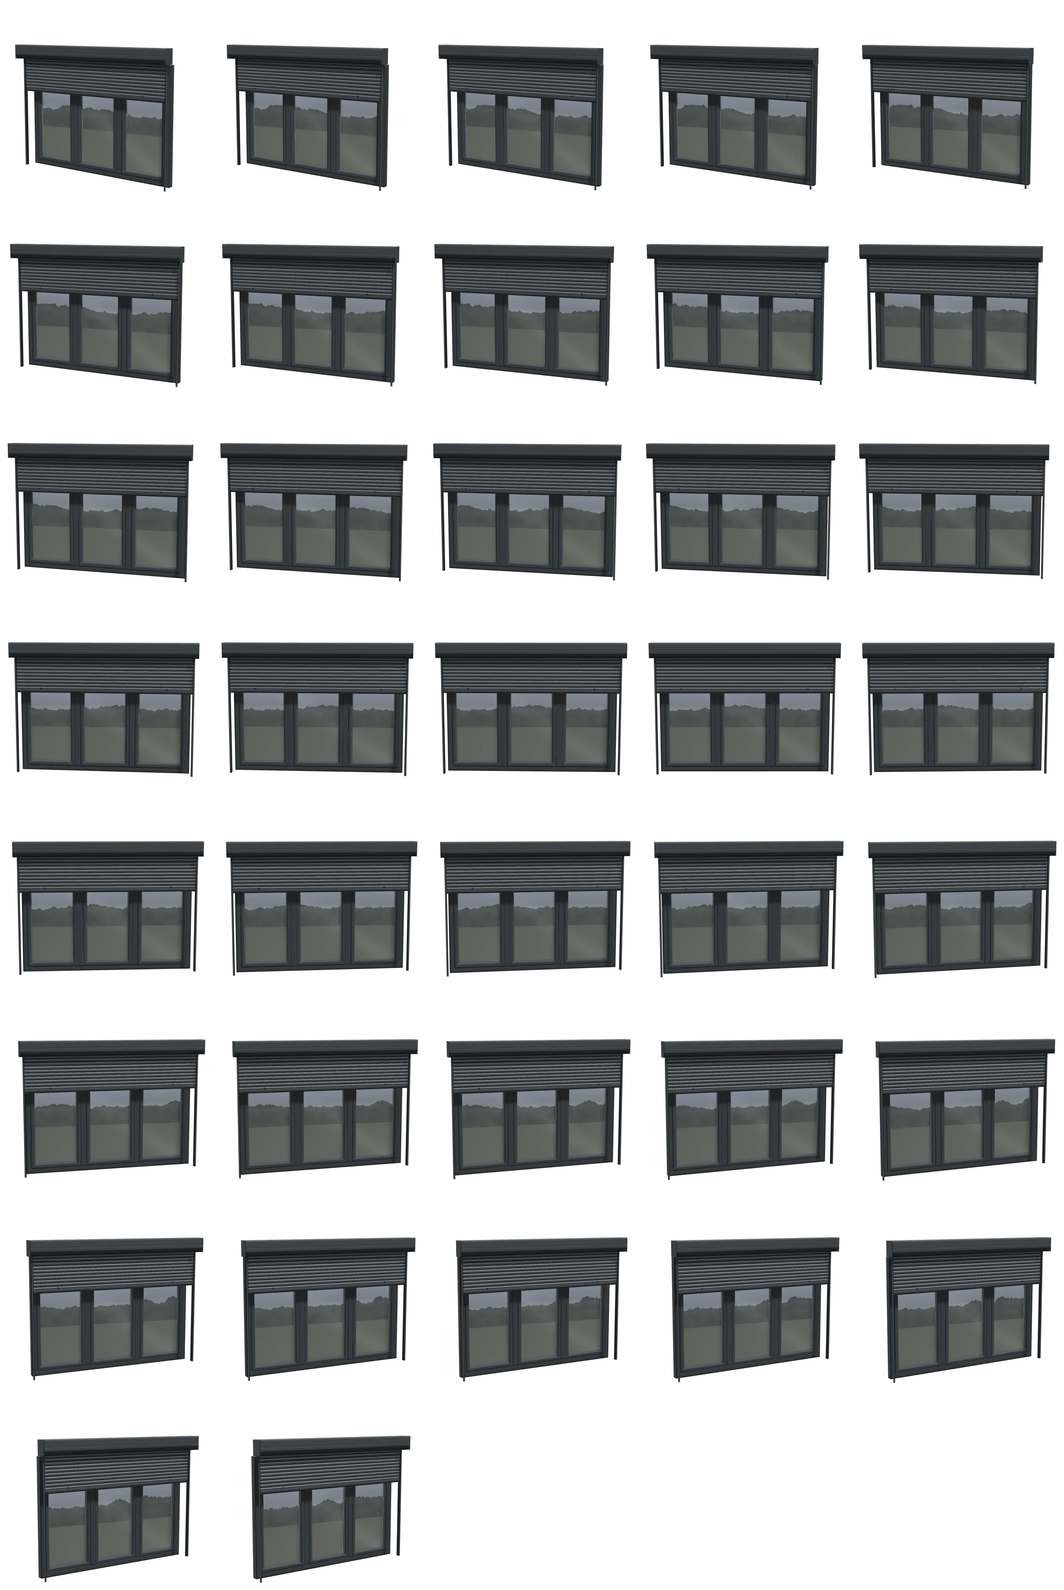
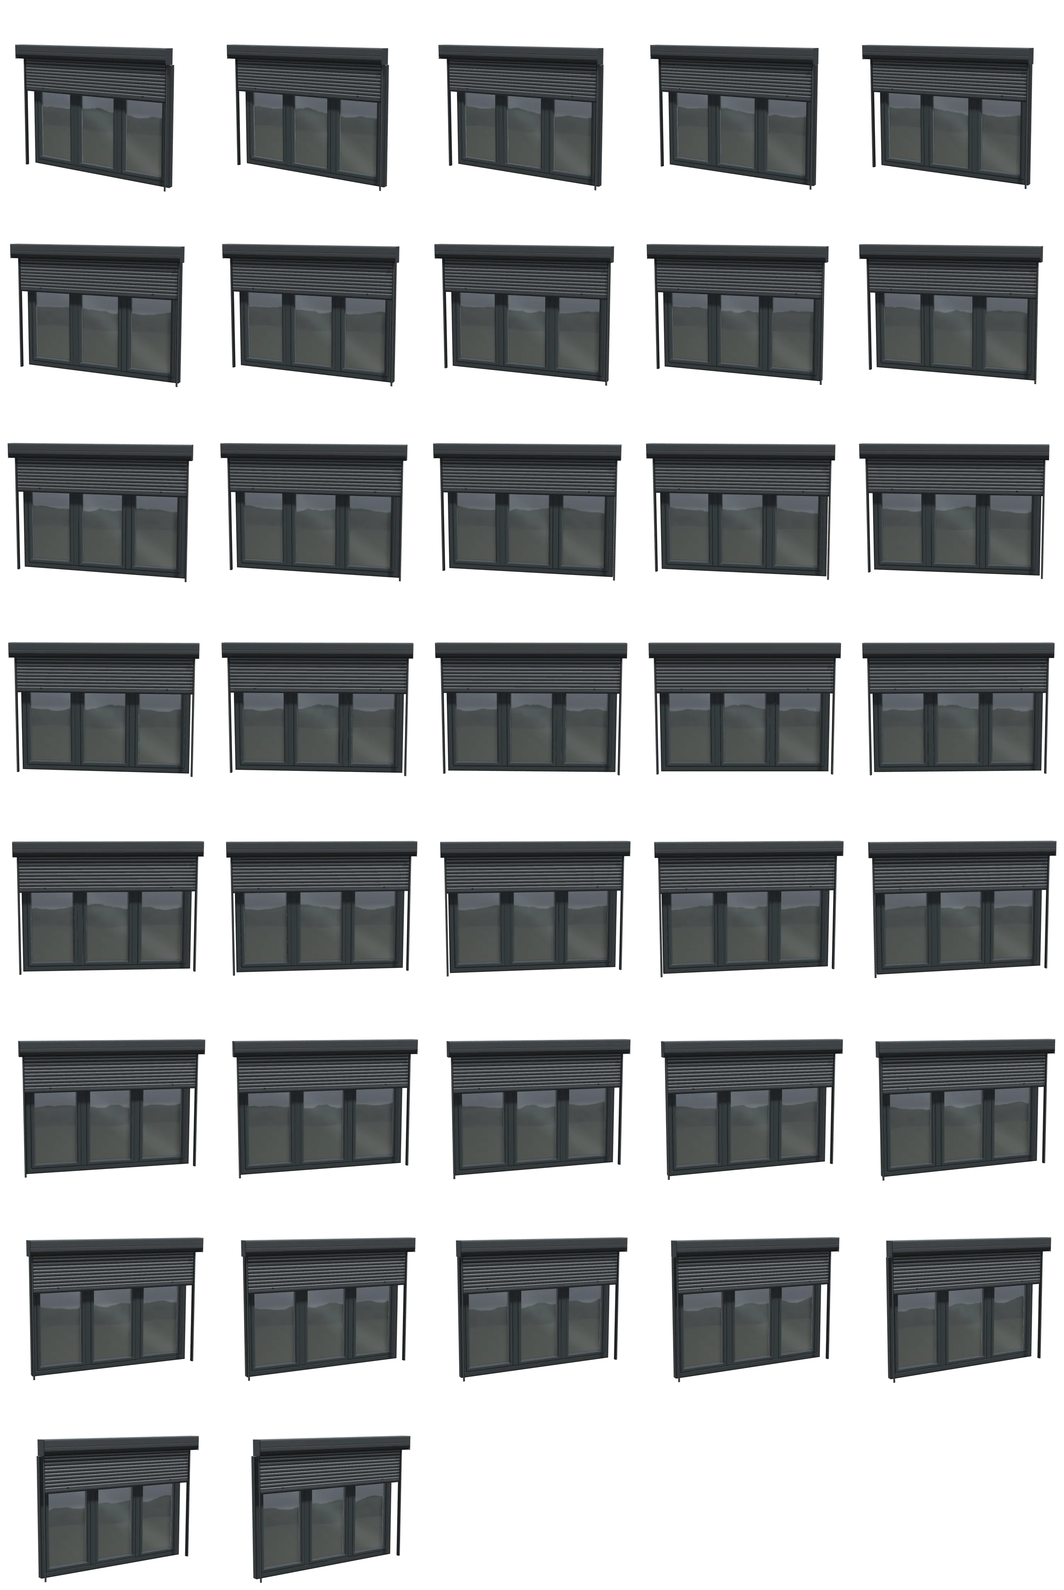
3-D-Bühne: Außenlaibung wie die Fassade, Isolierglas, flüssiges Ziehen
Zwei Punkte mit dem größten Gewinn an Realismus (Aufbau und Elemente),
ausgewählt mit einer unabhängigen Beurteilung der Bilder:

- Außenlaibung wie die Fassade: von der Außenkante des Rahmens bis zur
  Fassade trägt die Laibung deren Putz und Farbe, bei Klinker die Steine
  mit durchlaufenden Schichten, bei Holz die Bretter; innen bleibt der
  helle Innenputz (buehne.js laibungAussen). Das CSS-Modell zeigt die
  Außenlaibung im Ton der Fassade.
- Isolierglas von außen: weniger spiegelnd (22 bis 40 % statt 36 bis
  66 %), dunkler als die besonnte Wand, jede Scheibe leicht gewölbt
  (Doppelscheibeneffekt), rundere Baumkronen, dunklerer Rasen.

Fluss auf schwachen Geräten, ohne Änderung am Standbild:

- Ziehen, Zwei-Finger-Zoom und Zoom gelten als Bewegung: vorher wurde
  ab dem zweiten Bild des Ziehens in Standbild-Schärfe gezeichnet (am
  Telefon bis 2,25-fach, am Laptop bis 4-fach so viele Pixel), und der
  Regler zählte diese Bilder nicht.
- Der Regler stuft nach 6 statt 20 langsamen Bildern herunter, damit er
  schon in einer Kamerafahrt von 0,9 s greift; beim Ziehen ab 70 ms.

Hero-Bilder neu erzeugt, Doku und Vergleichsbilder unter docs/.

Claude-Session: https://claude.ai/code/session_0184P5fGdniWcDaYecSm6W1G

diff --git a/web/assets/buehne.js b/web/assets/buehne.js
@@ -261,12 +261,13 @@ window.Buehne3D = (function () {
     'float l=dot(c,vec3(0.3,0.59,0.11));return mix(vec3(l),c,0.6);}' +
     /* Spiegelwelt fürs Glas von außen (Inhaber, 6.11.2026: „den größten Einfluss … Realismus“): was vor dem Haus liegt, scharf wie in
        einer echten Scheibe: Himmel vom hellen Horizont zum Blau, ziehende Wolken, eine Baumreihe mit unruhiger Kante, davor Rasen und Weg.
-       el: Höhe über dem Horizont, az: Richtung; die Kanten bleiben auf einen Bildpunkt scharf (fwidth) */
-    'vec3 spiegel(float el,float az){float aa=max(fwidth(el)*1.2,0.0015);float hs=clamp(el/0.5,0.0,1.0);vec3 sky=mix(vec3(0.93,0.95,0.97),vec3(0.5,0.67,0.9),pow(hs,0.7));' +
+       el: Höhe über dem Horizont, az: Richtung; die Kanten bleiben scharf (fwidth, mindestens 0,0028).
+       Seit 6.11.2026 rundere Kronen (weniger feine Zacken, die Kante einen Hauch weicher) und ein dunklerer Rasen vor dem Haus */
+    'vec3 spiegel(float el,float az){float aa=max(fwidth(el)*1.2,0.0028);float hs=clamp(el/0.5,0.0,1.0);vec3 sky=mix(vec3(0.93,0.95,0.97),vec3(0.5,0.67,0.9),pow(hs,0.7));' +
     'float wo=rausch(vec2(az*2.4,el*5.0)+11.0)*0.55+rausch(vec2(az*5.3,el*11.0)+3.0)*0.3+rausch(vec2(az*12.0,el*25.0)+7.0)*0.15;sky=mix(sky,vec3(0.95,0.96,0.97),smoothstep(0.55,0.8,wo)*smoothstep(0.03,0.16,el));' +
-    'float tf=0.012+0.03*rausch(vec2(az*4.0,1.0))+0.016*rausch(vec2(az*15.0,4.0))+0.011*rausch(vec2(az*48.0,8.0))+0.006*rausch(vec2(az*130.0,6.0));float baum=1.0-smoothstep(tf-aa,tf+aa,el);' +
+    'float tf=0.014+0.03*rausch(vec2(az*4.0,1.0))+0.017*rausch(vec2(az*13.0,4.0))+0.007*rausch(vec2(az*34.0,8.0))+0.0025*rausch(vec2(az*90.0,6.0));float baum=1.0-smoothstep(tf-aa,tf+aa,el);' +
     'vec3 bc=mix(vec3(0.17,0.22,0.17),vec3(0.29,0.33,0.26),rausch(vec2(az*36.0,el*48.0)));bc=mix(bc,vec3(0.38,0.43,0.35),0.4*smoothstep(tf-0.035,tf,el));vec3 c=mix(sky,bc,baum);' +
-    'float hz=-0.03+0.003*rausch(vec2(az*9.0,2.0));float bo=1.0-smoothstep(hz-aa,hz+aa,el);vec3 gr=mix(vec3(0.47,0.53,0.41),vec3(0.58,0.58,0.55),smoothstep(-0.12,-0.3,el));return mix(c,gr,bo);}' +
+    'float hz=-0.03+0.003*rausch(vec2(az*9.0,2.0));float bo=1.0-smoothstep(hz-aa,hz+aa,el);vec3 gr=mix(vec3(0.38,0.43,0.34),vec3(0.5,0.5,0.47),smoothstep(-0.12,-0.3,el));return mix(c,gr,bo);}' +
     'void main(){gFw=fwidth(vP);vec3 N=normalize(mix(uN,uN2,clamp(uNA>0.5?vP.y/max(uWH.y,1e-3):vP.x/max(uWH.x,1e-3),0.0,1.0)));vec3 V=normalize(uEye-vW);float fs=dot(N,V);' +
     '\n#ifdef SCHNITT\nif(uSide>0.5&&fs<0.0)discard;if(uSide<-0.5&&fs>0.0)discard;\n#endif\n' +
     'vec2 P=vP;vec4 c=uBase;for(int i=4;i>=0;i--){if(i>=uNL)continue;vec4 l=lage(i,P);c=l+c*(1.0-l.a);}' +
@@ -296,9 +297,13 @@ window.Buehne3D = (function () {
        sich die Scheibe als Klarglas, nicht als Grau- oder Sonnenschutzglas */
     /* seit 5.11.2026 (Inhaber: „Detailreichtum“ und Spiegelungen wie echtes Glas): gespiegelt wird die Umgebung vor dem Haus, dieselbe
        Landschaft wie der Blick von innen (aussicht: Himmel, Baumreihe, Rasen), gekippt nach der Spiegelrichtung; beim Drehen wandert sie mit */
+    /* Isolierglas (Inhaber, 6.11.2026: Aufbau und Elemente realistischer): bei Tag ist die Scheibe dunkler als die besonnte Wand, sie
+       spiegelt oben den Himmel (22 bis 40 %, vorher 36 bis 66 %: das Glas stand wie ein helles Plakat in der Wand), darunter sieht man den
+       dunklen Raum. Jede Scheibe ist leicht gewölbt wie echtes Isolierglas (Doppelscheibeneffekt): Wölbung je Scheibe nach ihrer Lage
+       verschieden, nach innen oder außen, so biegt sich die Baumlinie je Scheibe ein wenig anders, statt in allen gleich zu stehen */
     'if(fs<0.0){float da=max(c.a,0.94);float yv=clamp(vP.y/max(uWH.y,1.0),0.0,1.0),xv=clamp(vP.x/max(uWH.x,1.0),0.0,1.0);float hi=1.0-smoothstep(0.05,0.62,yv);' +
-    'vec3 raum=mix(vec3(0.045,0.05,0.055),vec3(0.12,0.11,0.1),smoothstep(0.4,1.0,yv));rgb=mix(rgb,raum*da,0.86);c.a=da;F=max(F,0.36)+0.3*hi;float hw=max(uPr.w,1.0);' +
-    'env=spiegel(-vW.y/(2.2*hw)*0.7-R.y*0.5+0.1,vW.x/(2.2*hw)*0.7+R.x*0.8);rgb+=vec3(0.92,0.95,0.98)*0.08*exp(-pow((vW.x*0.7+vW.y)/hw/0.1,2.0))*da;}' +
+    'vec3 raum=mix(vec3(0.045,0.05,0.055),vec3(0.12,0.11,0.1),smoothstep(0.4,1.0,yv));rgb=mix(rgb,raum*da,0.86);c.a=da;F=max(F,0.22)+0.18*hi;float hw=max(uPr.w,1.0);vec3 o0=vW-uTx*vP.x-uTy*vP.y;float hb=hash(floor(o0.xy*0.37)+floor(uWH*0.21));float bow=0.012*(hb<0.5?-1.0:1.0)*(0.6+0.8*fract(hb*7.0));float bu=sin(3.14159*xv),bv=sin(3.14159*yv);' +
+    'env=spiegel(-vW.y/(2.2*hw)*0.7-R.y*0.5+0.1+bow*bu*cos(3.14159*yv),vW.x/(2.2*hw)*0.7+R.x*0.8+0.8*bow*cos(3.14159*xv)*bv);rgb+=vec3(0.92,0.95,0.98)*0.08*exp(-pow((vW.x*0.7+vW.y)/hw/0.1,2.0))*da;}' +
     /* von innen: die helle Durchsicht, dazu ein breiter, weicher Glanz schräg über alle Scheiben (Spiegelung des Raums, kaum sichtbar) */
     'else{if(uLi.w>1.5){float hw=max(uPr.w,1.0);vec3 d=-V;float el=-vW.y/(2.2*hw)-d.y,az=vW.x/(2.2*hw)+d.x/max(length(d.xz),1e-3);' +
     'vec3 au=aussicht(el,az)*(uLi.w>2.5?vec3(0.52,0.58,0.64):vec3(0.95,0.985,0.975));rgb=mix(rgb/max(c.a,1e-3),au,1.0-gPG)*uOp;c.a=uOp;}else rgb=mix(rgb,c.rgb*0.99,0.75*(1.0-gPG));float hw=max(uPr.w,1.0);rgb+=vec3(0.97,0.98,1.0)*0.09*exp(-pow((vW.x*0.6+vW.y)/hw/0.2+0.9,2.0))*c.a*(1.0-gPG);}rgb=rgb*(1.0-F)+env*F*c.a;}' +
@@ -536,26 +541,36 @@ window.Buehne3D = (function () {
       if (document.hidden || !B.sicht) return;
       /* Nur das Schwingen läuft: halbe Bildrate genügt (auf langsamen Geräten weniger) */
       if (!B.neu && B.nurSchwingen && now - B.zuletzt < (B.stufe ? 50 : 30)) { weiter = true; return; }
-      /* Regler: Bilder einer laufenden Bewegung (Ziehen, Zoomen, Übergang) dauern zu lange, 20 über 50 ms hintereinander: in Bewegung
+      /* Regler: Bilder einer laufenden Bewegung (Ziehen, Zoomen, Übergang) dauern zu lange, 6 über 50 ms hintereinander: in Bewegung
          eine Stufe gröber (Pixeldichte 1,5, dann 1,25 ohne Schatten). 90 schnelle Bilder (unter 30 ms) holen eine Stufe zurück.
          Nur das Schwingen zählt nicht: ist es langsam, hört es auf. Pausen (Tab im Hintergrund) zählen nicht. Steht das Bild,
-         wird es einmal scharf gezeichnet (B.scharf), so wirkt eine grobe Stufe nur, solange sich etwas bewegt */
+         wird es einmal scharf gezeichnet (B.scharf), so wirkt eine grobe Stufe nur, solange sich etwas bewegt.
+         Seit 6.11.2026 (Inhaber: Fluss auf Geräten mit wenig Arbeitsspeicher, ohne Qualitätsverlust): vorher erst nach 20 langsamen
+         Bildern; eine Kamerafahrt dauert 0,9 s, auf einem schwachen Gerät (80 ms je Bild) sind das 11 Bilder, der Regler griff also nie
+         und jede Fahrt ruckelte ganz. Jetzt lernt er in der ersten Fahrt (etwa 0,4 s), die Stufe gilt für die Sitzung (GSTUFE) */
       if (B.fort && !B.neu && !VOLL) {
         const dt = now - B.zuletzt;
         if (dt < 2000) {
           if (B.nurSchwingen) { B.langsamS = dt > 70 ? (B.langsamS || 0) + 1 : 0; if (B.langsamS > 24) B.schwing.aus = true; }
           else {
-            B.langsam = dt > 50 ? (B.langsam || 0) + 1 : 0; B.schnell = dt < 30 ? (B.schnell || 0) + 1 : 0;
-            if (B.langsam >= 20 && B.stufe < 2) { B.langsam = 0; B.stufe++; GSTUFE = B.stufe; }
+            /* beim Ziehen kommen die Bilder mit den Bewegungen des Fingers: ein langsamer Finger ist kein langsames Gerät, darum dort erst ab 70 ms */
+            B.langsam = dt > (B.fortZieht ? 70 : 50) ? (B.langsam || 0) + 1 : 0; B.schnell = dt < 30 ? (B.schnell || 0) + 1 : 0;
+            if (B.langsam >= 6 && B.stufe < 2) { B.langsam = 0; B.stufe++; GSTUFE = B.stufe; }
             if (B.schnell >= 90 && B.stufe > 0) { B.schnell = 0; B.stufe--; GSTUFE = B.stufe; }
           }
         }
       }
+      /* Ziehen, Zwei-Finger-Zoom und Zoom per Knopf sind Bewegung wie eine Kamerafahrt (6.11.2026): vorher zeichnete die Bühne ab dem
+         zweiten Bild des Ziehens in Standbild-Schärfe (am Telefon bis dreifache Pixeldichte, am Laptop doppelt überabgetastet, also das
+         2,25- bis 4-Fache an Pixeln je Bild), und der Regler zählte diese Bilder nicht. Jetzt in der Pixeldichte der Bewegung; das
+         scharfe Bild kommt einmal, wenn der Finger loslässt */
+      const sc = stage.classList; B.zieht = sc.contains('is-drag') || sc.contains('is-pinch') || sc.contains('is-zooming');
+      if (B.zieht) B.scharf = false;
       const lauf = zeichnen(stage, B, now);
       if (B.zuletzt && B.fort) B.dt = now - B.zuletzt;
-      B.neu = false; B.zuletzt = now; B.fort = !!lauf;
+      B.neu = false; B.zuletzt = now; B.fort = !!lauf || B.zieht; B.fortZieht = !lauf && B.zieht;
       infoZeigen(stage, B, now);
-      if (lauf) { weiter = true; B.scharf = false; } else if (!B.scharf && (B.stufe > 0 || (window.devicePixelRatio || 1) > STUFE_DPR[0] || (window.devicePixelRatio || 1) <= 1.5)) { B.scharf = true; weiter = true; }
+      if (lauf) { weiter = true; B.scharf = false; } else if (B.zieht) B.scharf = false; else if (!B.scharf && (B.stufe > 0 || (window.devicePixelRatio || 1) > STUFE_DPR[0] || (window.devicePixelRatio || 1) <= 1.5)) { B.scharf = true; weiter = true; }
     });
     if (weiter && !raf) raf = requestAnimationFrame(bild);
   }
@@ -1014,6 +1029,7 @@ window.Buehne3D = (function () {
       /* Lamellen mit C-Profil: die Normale neigt sich über die Höhe der Lamelle (_bieg Grad je Kante), so fängt die Wölbung Licht */
       if (el._bieg) { const nb = (g) => { const m = mul(Mf, RX(g)), a = ap(m, 0, 0, 1), z0 = ap(m, 0, 0, 0); return norm([a[0] - z0[0], a[1] - z0[1], a[2] - z0[2]]); }; it.n1 = nb(-el._bieg); it.n2 = nb(el._bieg); it.nAchse = 1; }
       items.push(it);
+      if (LAIBUNG_GETEILT.test(role) && el._bgc !== 'transparent') laibungAussen(it, f, stage, items);
       const pr = !DBG.ohneFalz && falzPartner(role); if (pr) falz(el, pr, Mf, f, o, !sash);
       if (glas) glasKinder(el, Mf, f, op, sash);
       if (glas && sash) { if (sash.classList.contains('demo-F')) glanz(el, Mf, f, op, sash); else sash._glc = ''; }
@@ -1198,6 +1214,24 @@ window.Buehne3D = (function () {
   }
   const FALZ = { 'el-front': 'el-back', 'ol-front': 'ol-back', 'ul-front': 'ul-back', kf: 'kfb', kfu: 'kfub' };
   const falzPartner = (role) => FALZ[role] || (role.indexOf('sf-in-') === 0 ? 'sf-out-' + role.slice(6) : role.indexOf('mul-') === 0 ? 'mulb-' + role.slice(4) : '');
+  /* Außenlaibung wie die Fassade (Inhaber, 6.11.2026: Aufbau und Elemente realistischer): von der Außenkante des Rahmens bis zur
+     Fassade trägt die Laibung deren Putz und Farbe, bei Klinker die Steine mit durchlaufenden Schichten, bei Holz die Bretter; innen
+     bleibt der helle Innenputz. Vorher war die ganze Laibung heller Einheitsputz und las sich außen als Papierstreifen neben dem Rahmen.
+     Dieselbe Fläche in zwei Teilen (Licht, Kontaktschatten und Schatten wie bisher), der äußere mit dem Stoff der Fassade */
+  const LAIBUNG_GETEILT = /^(rev-[tlr]|rs-\d+)$/;
+  function laibungAussen(it, f, stage, items) {
+    const v = stage._v; if (!v || f.c || stage.classList.contains('raum-licht')) return;
+    const wo = stage.querySelector('[data-r="wall-out"]'); if (!wo || !wo._f) return;
+    const quer = it.role === 'rev-l' || it.role === 'rev-r', a = v.d + v.fd, tief = quer ? f.W : f.H;
+    if (!(a > 0.5 && a < tief - 0.5)) return;
+    const e = quer ? { x: 0, o: HAUCH, u: HAUCH } : it.role === 'rev-t' ? { x: HAUCH, o: 0, u: 0 } : { x: 0, o: 0, u: 0 };
+    const rechteck = (x0, y0, x1, y1) => [x0, y0, x1, y0, x1, y1, x0, y0, x1, y1, x0, y1];
+    it.tri = quer ? rechteck(-e.x, -e.o, a, f.H + e.u) : rechteck(-e.x, -e.o, f.W + e.x, a);
+    /* Muster an die Fassade anschließen: an den Seiten laufen die Schichten des Klinkers um die Ecke (Fassade gespiegelt, rotateY 180) */
+    const wf = wo._tf && wo._tf.jetzt ? wo._tf.jetzt : wo._f;
+    items.push(Object.assign({}, it, { tri: quer ? rechteck(a, -e.o, f.W + e.x, f.H + e.u) : rechteck(-e.x, a, f.W + e.x, f.H + e.u), st: flaecheStoff(wo, stage),
+      artO: quer ? [0, f.y - wf.y] : [(wf.x + wf.W) - (f.x + f.W), 0], _sch: null, partner: it, aussenTeil: true }));
+  }
   function aoFuer(role, f, stage) {
     const v = stage._v; if (!v) return null;
     const d = v.d, fd = v.fd, r = Math.max(4, fd * 0.9), dF = d + 1 + HAUCH, s = v.s || 0.2, loch = f.c && f.c.t === 'hole' ? f.c.r : null;
@@ -1374,13 +1408,15 @@ window.Buehne3D = (function () {
   }
   /* Laibung aus Streifen (Formen): Normalen an den Stoßkanten gemittelt, damit Bögen glatt schattiert sind */
   function glatt(items) {
-    const rs = items.filter((it) => it.role && it.role.indexOf('rs-') === 0 && it.W > 0.05).sort((a, b) => +a.role.slice(3) - +b.role.slice(3));
+    const rs = items.filter((it) => it.role && it.role.indexOf('rs-') === 0 && it.W > 0.05 && !it.aussenTeil).sort((a, b) => +a.role.slice(3) - +b.role.slice(3));
     const nrm = (it) => { const a = ap(it.M, 0, 0, 1), b = ap(it.M, 0, 0, 0); return norm([a[0] - b[0], a[1] - b[1], a[2] - b[2]]); };
     const N = rs.map(nrm), n = rs.length;
     rs.forEach((it, k) => {
       const v = N[(k - 1 + n) % n], h = N[(k + 1) % n], m = N[k], nah = (a) => a[0] * m[0] + a[1] * m[1] + a[2] * m[2] > 0.82;
       it.n1 = nah(v) ? norm([v[0] + m[0], v[1] + m[1], v[2] + m[2]]) : m; it.n2 = nah(h) ? norm([h[0] + m[0], h[1] + m[1], h[2] + m[2]]) : m;
     });
+    /* der äußere Teil einer geteilten Laibung (laibungAussen) folgt den geglätteten Normalen seines inneren Teils */
+    items.forEach((it) => { if (it.partner) { it.n1 = it.partner.n1; it.n2 = it.partner.n2; } });
   }
   /* Schattenkarte aus Sicht der sichtbaren Sonne: Kasten um die Öffnung, alles Undurchsichtige wirft Schatten */
   function schattenMalen(B, seite, v) {
@@ -1481,7 +1517,7 @@ window.Buehne3D = (function () {
       const k = Math.max(0.02, MASSSTAB), f = st.artFarbe;
       gl.uniform4f(u.uArt, st.art[0], k, it.senk ? 2 : it.W >= it.H ? 1 : 2, st.art[1]); gl.uniform3f(u.uArtC, f[0], f[1], f[2]);
       /* Muster an das der Nachbarfläche anschließen (Blende des Aufsatzkastens in der Fassade): Versatz in örtlichen Pixeln */
-      const ao = it.el && it.el._artVers; gl.uniform2f(u.uArtO, ao ? ao[0] : 0, ao ? ao[1] : 0);
+      const ao = it.artO || (it.el && it.el._artVers); gl.uniform2f(u.uArtO, ao ? ao[0] : 0, ao ? ao[1] : 0);
       const c = fc; if (c && c.t === 'hole' && st.art[0] === 4) gl.uniform4f(u.uBand, c.r[0], c.r[1], c.r[2], c.r[3]); else gl.uniform4f(u.uBand, 0, 0, 0, 0);
     } else gl.uniform4f(u.uArt, 0, 0, 0, 0);
     AO.fill(0); if (it.ao) it.ao.forEach((a, i) => { if (i < 4) AO.set(a, i * 4); });

diff --git a/web/assets/app.js b/web/assets/app.js
@@ -1728,6 +1728,10 @@ function w3dLayout(stage, w, o, gr) {
   face(q('wall-in'), wallW, wallH, -wallW / 2, -wallH / 2, 0, '', '0 0', wandLoch(false));
   face(q('wall-out'), wallW, wallH, -wallW / 2, -wallH / 2, -T, 'rotateY(180deg)', '50% 50%', wandLoch(true));
   const bankZone = 'linear-gradient(180deg, transparent 0 ' + px(d) + ', #9a9fa4 ' + px(d) + ' ' + px(d + fd) + ', transparent ' + px(d + fd) + ')';
+  /* Außenlaibung im Ton der Fassade (6.11.2026), wie in der WebGL-Bühne (buehne.js, laibungAussen): das CSS-Modell steht, bis die
+     Grafik bereit ist, und auf Geräten ohne WebGL; ab der Außenkante des Rahmens je Seite im Licht etwas heller oder dunkler */
+  const fTon = fassadeTon(w) || FASSADE_STD[w.fassade] || (w.fassade === 'wdvs' ? '#aea89f' : '#a0978a'), laibA = T > 0 ? n1((d + fd) / T * 100) + '%' : '101%';
+  stage.style.setProperty('--laib-a', laibA); stage.style.setProperty('--laib-l', mischHex(fTon, '#ffffff', 0.05)); stage.style.setProperty('--laib-r', mischHex(fTon, '#000000', 0.14)); stage.style.setProperty('--laib-t', mischHex(fTon, '#000000', 0.28));
   if (G) {
     /* Laibung als Streifen: je Umrisskante eine Fläche, die in die Wand hineinreicht; Farbe nach Blickrichtung, unten die Bank */
     const P = gO.pts, n = P.length;
@@ -1742,7 +1746,7 @@ function w3dLayout(stage, w, o, gr) {
       el._ang = ang;
       face(el, len > 0.01 ? len + 0.8 : 0, T, a[0], a[1], 0, 'rotateZ(' + n1(ang) + 'deg) rotateX(-90deg)', '0 0');
       const unten = !gO.rund && k > FORM_O && k < n - 1;
-      el._bgc = unten ? 'transparent' : revFarbe(Math.atan2(dx, -dy) * 180 / Math.PI); el._bgi = unten ? bankZone : '';
+      el._bgc = unten ? 'transparent' : revFarbe(Math.atan2(dx, -dy) * 180 / Math.PI); el._bgi = unten ? bankZone : 'linear-gradient(180deg, transparent ' + laibA + ', ' + mischHex(fTon, '#000000', 0.16) + ' 0), linear-gradient(180deg, rgba(255, 255, 255, 0), rgba(0, 0, 0, .07))';
       el.style.backgroundColor = el._bgc; el.style.backgroundImage = el._bgi;
     }
   } else {

diff --git a/web/assets/app.css b/web/assets/app.css
@@ -335,7 +335,10 @@ h2.sec-title { margin: 0; font-size: 24px; line-height: 1.15; font-weight: 800; 
 /* Wand und Laibung als heller Putz wie im echten Raum: die Laibung ist je Seite anders beleuchtet (oben im Schatten, eine Seite
    im Licht, die andere halb) und wird zum Rahmen hin dunkler. So liest man sie als Tiefe und nicht als Loch in der Wand. */
 .w3d-wall-in { background: radial-gradient(ellipse at 50% 45%, rgba(0, 0, 0, 0) 55%, rgba(0, 0, 0, .1) 100%), linear-gradient(180deg, #ebe6de, #dcd5ca) }
-.w3d-rev-t { background: linear-gradient(180deg, #b4aa9b, #978d7f) } .w3d-rev-l { background: linear-gradient(90deg, #e9e3d9, #cdc5b8) } .w3d-rev-r { background: linear-gradient(90deg, #c8bfb1, #aba191) }
+/* Außenlaibung im Ton der Fassade (6.11.2026): ab --laib-a (Außenkante des Rahmens) die Farbe aus app.js (w3dLayout) */
+.w3d-rev-t { background: linear-gradient(180deg, transparent var(--laib-a, 101%), var(--laib-t, transparent) 0), linear-gradient(180deg, #b4aa9b, #978d7f) }
+.w3d-rev-l { background: linear-gradient(90deg, transparent var(--laib-a, 101%), var(--laib-l, transparent) 0), linear-gradient(90deg, #e9e3d9, #cdc5b8) }
+.w3d-rev-r { background: linear-gradient(90deg, transparent var(--laib-a, 101%), var(--laib-r, transparent) 0), linear-gradient(90deg, #c8bfb1, #aba191) }
 .w3d-sill { box-shadow: inset 0 0 0 1px rgba(0, 0, 0, .08) }
 .w3d-el { position: absolute; left: 0; top: 0; transform-style: preserve-3d; transition: opacity .6s } .w3d-el.is-hidden { opacity: 0 }
 /* Profilkanten: eine helle Licht- und eine dunkle Schattenkante (Realismus, wie die Rundung der Kanten in der WebGL-Bühne) */

diff --git a/web/app/index.html b/web/app/index.html
@@ -22,7 +22,7 @@
 <link rel="stylesheet" href="/fonts/fonts.css">
 <link rel="stylesheet" href="/assets/gemeinsam.css">
 <link rel="stylesheet" href="/assets/ratgeber.css">
-<link rel="stylesheet" href="/assets/app.css?v=2026-11-06a">
+<link rel="stylesheet" href="/assets/app.css?v=2026-11-06b">
 <link rel="stylesheet" href="/assets/messen-dna.css">
 <link rel="stylesheet" href="/assets/hausbild.css?v=2026-11-04b">
 <link rel="stylesheet" href="/assets/einladung.css">
@@ -92,10 +92,10 @@
 <script src="/assets/blatt.js?v=2026-11-05a" defer></script>
 <script src="/assets/ral.js"></script>
 <script src="/assets/modell.js?v=2026-11-05a"></script>
-<script src="/assets/buehne.js?v=2026-11-06a"></script>
+<script src="/assets/buehne.js?v=2026-11-06b"></script>
 <script src="/assets/messen-dna.js"></script>
 <script src="/assets/pakete.js"></script>
-<script src="/assets/app.js?v=2026-11-06b"></script>
+<script src="/assets/app.js?v=2026-11-06c"></script>
 <script src="/assets/hausbild.js?v=2026-11-06a"></script>
 </body>
 </html>

diff --git a/docs/GESTALTUNG.md b/docs/GESTALTUNG.md
@@ -718,6 +718,23 @@ Wünsche (`frageDna`), Schritt 1 „Was planst du?“ (`startDna`) und Schritt 2
     das CSS-Modell; vorher hielt das erste Bild die App an (gemessen mit vierfach gedrosselter CPU: 2 s ohne jede Eingabe). Das Foto fürs
     Hausbild übersetzt sofort (`an(stage, true)`). Mit `navigator.deviceMemory` bis 4 GB nur eine freie Leinwand im Vorrat statt drei.
     Bei Fragen ohne Lage kein erzwungenes Layout mehr je Wechsel (`lgAuf`), Prozente ohne `toLocaleString` je Aufruf.
+  - 3-D-Bühne, zweite Runde (6.11.2026, Inhaber: die zwei Punkte, die Aufbau und Elemente am stärksten realistischer machen, dann der
+    Fluss auf Geräten mit wenig Arbeitsspeicher). Auswahl mit einer unabhängigen Beurteilung der Bilder; ein Glanz der Profile mit
+    Spiegelung des Himmels wurde probiert und verworfen (in der Normalansicht kaum sichtbar).
+    1. Außenlaibung wie die Fassade (`laibungAussen` in buehne.js): von der Außenkante des Rahmens bis zur Fassade trägt die Laibung
+       deren Putz und Farbe, bei Klinker die Steine mit durchlaufenden Schichten, bei Holz die Bretter; innen bleibt der helle Innenputz.
+       Vorher war die ganze Laibung heller Einheitsputz und las sich außen als Papierstreifen neben dem Rahmen. Das CSS-Modell (bis die
+       Grafik bereit ist, ohne WebGL) zeigt die Außenlaibung im Ton der Fassade (`--laib-a`, `--laib-l/r/t`).
+    2. Isolierglas von außen: die Scheibe ist dunkler als die besonnte Wand und spiegelt oben den Himmel (22 bis 40 %, vorher 36 bis
+       66 %, das Glas stand wie ein helles Plakat in der Wand), darunter der dunkle Raum. Jede Scheibe ist leicht gewölbt wie echtes
+       Isolierglas (Doppelscheibeneffekt, je Scheibe nach innen oder außen), die Baumlinie biegt sich je Scheibe etwas anders; rundere
+       Baumkronen, dunklerer Rasen in der Spiegelung. Gemessen am Telefon (Helligkeit 0 bis 255, Wand 143): Glas oben 163 → 130,
+       unten 97 → 84.
+    3. Fluss: Ziehen, Zwei-Finger-Zoom und Zoom gelten als Bewegung. Vorher zeichnete die Bühne ab dem zweiten Bild des Ziehens in
+       Standbild-Schärfe (am Telefon mit dreifacher Pixeldichte 1077 × 1207 statt 718 × 805, am Laptop doppelt überabgetastet), und der
+       Regler zählte diese Bilder nicht. Der Regler stuft nach 6 statt 20 langsamen Bildern herunter (eine Kamerafahrt von 0,9 s hat auf
+       einem schwachen Gerät nur etwa 11 Bilder; vorher griff er dort nie). Steht das Bild, wird es wie bisher einmal scharf gezeichnet:
+       am Standbild ändert sich nichts. Bilder: docs/profis/bilder/2026-11-06-3d2-*.jpg.
   - 3-D-Bühne (5.11.2026, Detail und Umgebung): Glas spiegelt von außen dieselbe Landschaft wie der Blick von innen (Himmel, Baumreihe,
     Rasen) nach der Spiegelrichtung, kräftiger als vorher; weicher Schatten unter der Fensterbank innen und außen (`si-sch`, `sa-sch`).
   - Kacheln oben in der Liste (und auf Sichern, Konto, Prüfen): am Telefon höchstens vier, ab fünf Fenstern drei und „+n weitere“; am
